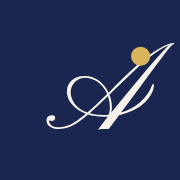
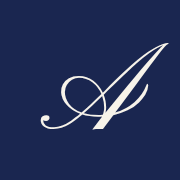
Take the dot off the name
It was in three places, all of them drawn rather than typed: a gold circle over
the dotless ı in the wordmark, another beside the A of the initial, and a
<circle> in the favicon.

All three gone. The word is set as "Ar" in the ink and "mı" in the gold, and it
ends on the stroke rather than on a piece of punctuation — the letter as a pen
leaves it when it does not come back up. The initial is the A and nothing
beside it. The favicon's A is re-centred, since it had been nudged left to
leave room for a dot that is no longer there, and apple-icon.png is regenerated
from it.

Which also removes the one thing on the screen that was not the typeface: a
circle positioned over type by hand is a circle that lands in the wrong place
the day the script fails to load.

Three comments described the dot as though it were still there — the Logo
header, the palette note in globals.css, and the brand section of the README.
Updated rather than left to describe something that no longer exists.

Verified
--------
e2e (15), canvas (25), web (26), project (21), mode (12), pdf (9), editor (15),
makes (33), bar (24), motion (17), use (21), scale (6), backup (14), audit
14/0, contrast 28/28 both themes, touch, smoke. Build and tsc clean.

Claude-Session: https://claude.ai/code/session_012H8wcy96qbjGfQsb7cinpk

Changed region(s): [[0.2222, 0.2222, 0.9722, 0.7222]]

diff --git a/components/brand/Logo.tsx b/components/brand/Logo.tsx
@@ -9,17 +9,15 @@ import { cn } from "@/lib/utils";
  * A signature. The brief was a fountain pen on deckle paper, and what a pen
  * writes is not a logotype — it is a name in someone's hand. So the mark is
  * the word set in a copperplate script (Pinyon, the engraved round hand of
- * nineteenth-century correspondence), in the ink, with one thing in gold: the
- * dot on the i, which is where the pen lifts.
+ * nineteenth-century correspondence), in the ink, with the last two letters in
+ * the gold of the nib.
  *
  * It appears at most once per screen. A signature repeated is a watermark.
  *
- * The dot is drawn rather than typed. Colouring one glyph of a font a
- * different colour is not something text can do, and a dotless i drawn from
- * a different subset is a fallback waiting to happen — so the word is set as
- * "Arm" plus a dotless "ı", and the dot is a circle placed where the face
- * puts it. If the script ever fails to load the fallback is a plain cursive
- * with its own dot, and the gold one simply sits on top of it.
+ * There is no dot. The i is set as a dotless "ı" — the letter as a pen leaves
+ * it when it does not come back up — so the word ends on the stroke rather
+ * than on a punctuation mark. Nothing is drawn over the type, which also means
+ * nothing to sit in the wrong place if the script ever fails to load.
  */
 
 /** The name, set. */
@@ -60,23 +58,13 @@ export function Wordmark({
       >
         m{"ı"}
       </span>
-      <span
-        aria-hidden
-        className={gold ? "absolute rounded-full bg-[var(--accent-2)]" : "absolute rounded-full bg-current"}
-        style={{
-          width: size * 0.085,
-          height: size * 0.085,
-          right: size * 0.075,
-          top: size * 0.3,
-        }}
-      />
     </span>
   );
 }
 
 /**
  * The initial, for the app icon and anywhere the whole name would not fit.
- * Same script, same ink, same gold dot standing in for the one on the i.
+ * Same script, same ink, and nothing beside it.
  */
 export function Mark({ size = 20, className }: { size?: number; className?: string }) {
   return (
@@ -86,10 +74,6 @@ export function Mark({ size = 20, className }: { size?: number; className?: stri
       style={{ width: size, height: size, fontSize: size * 0.92, lineHeight: 1 }}
     >
       <span style={{ marginBottom: -size * 0.02 }}>A</span>
-      <span
-        className="absolute rounded-full bg-[var(--accent-2)]"
-        style={{ width: size * 0.13, height: size * 0.13, right: size * 0.02, top: size * 0.18 }}
-      />
     </span>
   );
 }

diff --git a/app/globals.css b/app/globals.css
@@ -53,9 +53,9 @@
        Ink     #1A2650   the words. A saturated navy, the colour a good blue
                          ink dries to, and the only colour most of a screen
                          is ever made of.
-       Gold    #D4AF5A   the nib. A jewel, never a surface: the dot on the i,
-                         a badge, the tip of the caret, the edge of the ring
-                         while a reply is arriving.
+       Gold    #D4AF5A   the nib. A jewel, never a surface: the last letters of
+                         the signature, a badge, the tip of the caret, the edge
+                         of the ring while a reply is arriving.
        Leather #8A4B1D   the desk. Warmth in the field behind everything, and
                          the colour of "thinking" — a state that is warm and
                          slow rather than electric.

diff --git a/README.md b/README.md
@@ -310,8 +310,8 @@ to get back to.
 Paper (`#f7f3ea`) is the ground — ivory, not white and not yellow. Ink (`#1a2650`)
 is the words: a saturated navy, the colour a good blue ink dries to, and the only
 colour most of a screen is ever made of. Gold (`#d4af5a`) is the nib — a jewel,
-never a surface: the dot on the i, a badge, the tip of the caret, the edge of the
-ring while an answer is arriving. Leather (`#8a4b1d`) is the desk: warmth in the
+never a surface: the last letters of the signature, a badge, the tip of the caret,
+the edge of the ring while an answer is arriving. Leather (`#8a4b1d`) is the desk: warmth in the
 field behind everything, and the colour of *thinking*, a state that is warm and
 slow rather than electric.
 
@@ -349,18 +349,24 @@ the font stack for a year and never served, so every screenshot in this repo, an
 the app for anyone without it installed, was actually DejaVu Sans. A font you name
 but do not ship is a wish.
 
-**The mark** — the word in a hand, in two tones: *Ar* in the ink, *mi* in the gold
-of the nib, and the dot on the i where the pen lifts. It is two spans rather than
-one gradient, because a gradient needs `color: transparent` and `background-clip:
-text`, and in forced-colors mode that is a wordmark which renders as nothing at
-all. Pinyon joins its letters, so the second half is pulled back by the width of
-the connector between the r and the m to put that join back.
+**The mark** — the word in a hand, in two tones: *Ar* in the ink, *mı* in the gold
+of the nib. It is two spans rather than one gradient, because a gradient needs
+`color: transparent` and `background-clip: text`, and in forced-colors mode that
+is a wordmark which renders as nothing at all. Pinyon joins its letters, so the
+second half is pulled back by the width of the connector between the r and the m
+to put that join back.
+
+There is no dot. The i is set as a dotless *ı* — the letter as a pen leaves it
+when it does not come back up — so the word ends on the stroke rather than on a
+piece of punctuation. It used to be a gold circle drawn over the type, which
+also meant one thing on the screen that was not the typeface and could sit in
+the wrong place if the script failed to load. Nothing is drawn over the word now.
 
 It sits at 38px in the sidebar corner, not the 30 it started at. A copperplate
 script is all hairlines and joins, and at 30 those joins fall below a pixel and
 the name reads as a squiggle — the answer was never a different typeface, it was
-more room. The app icon is the initial in the same hand on the navy, with the
-same gold dot.
+more room. The app icon is the initial in the same hand on the navy, and nothing
+beside it.
 
 **Thinking** — one motif wherever the model is running: a ring of field energy that
 turns, and a hairline that travels the width of whatever is live. It says *running*
